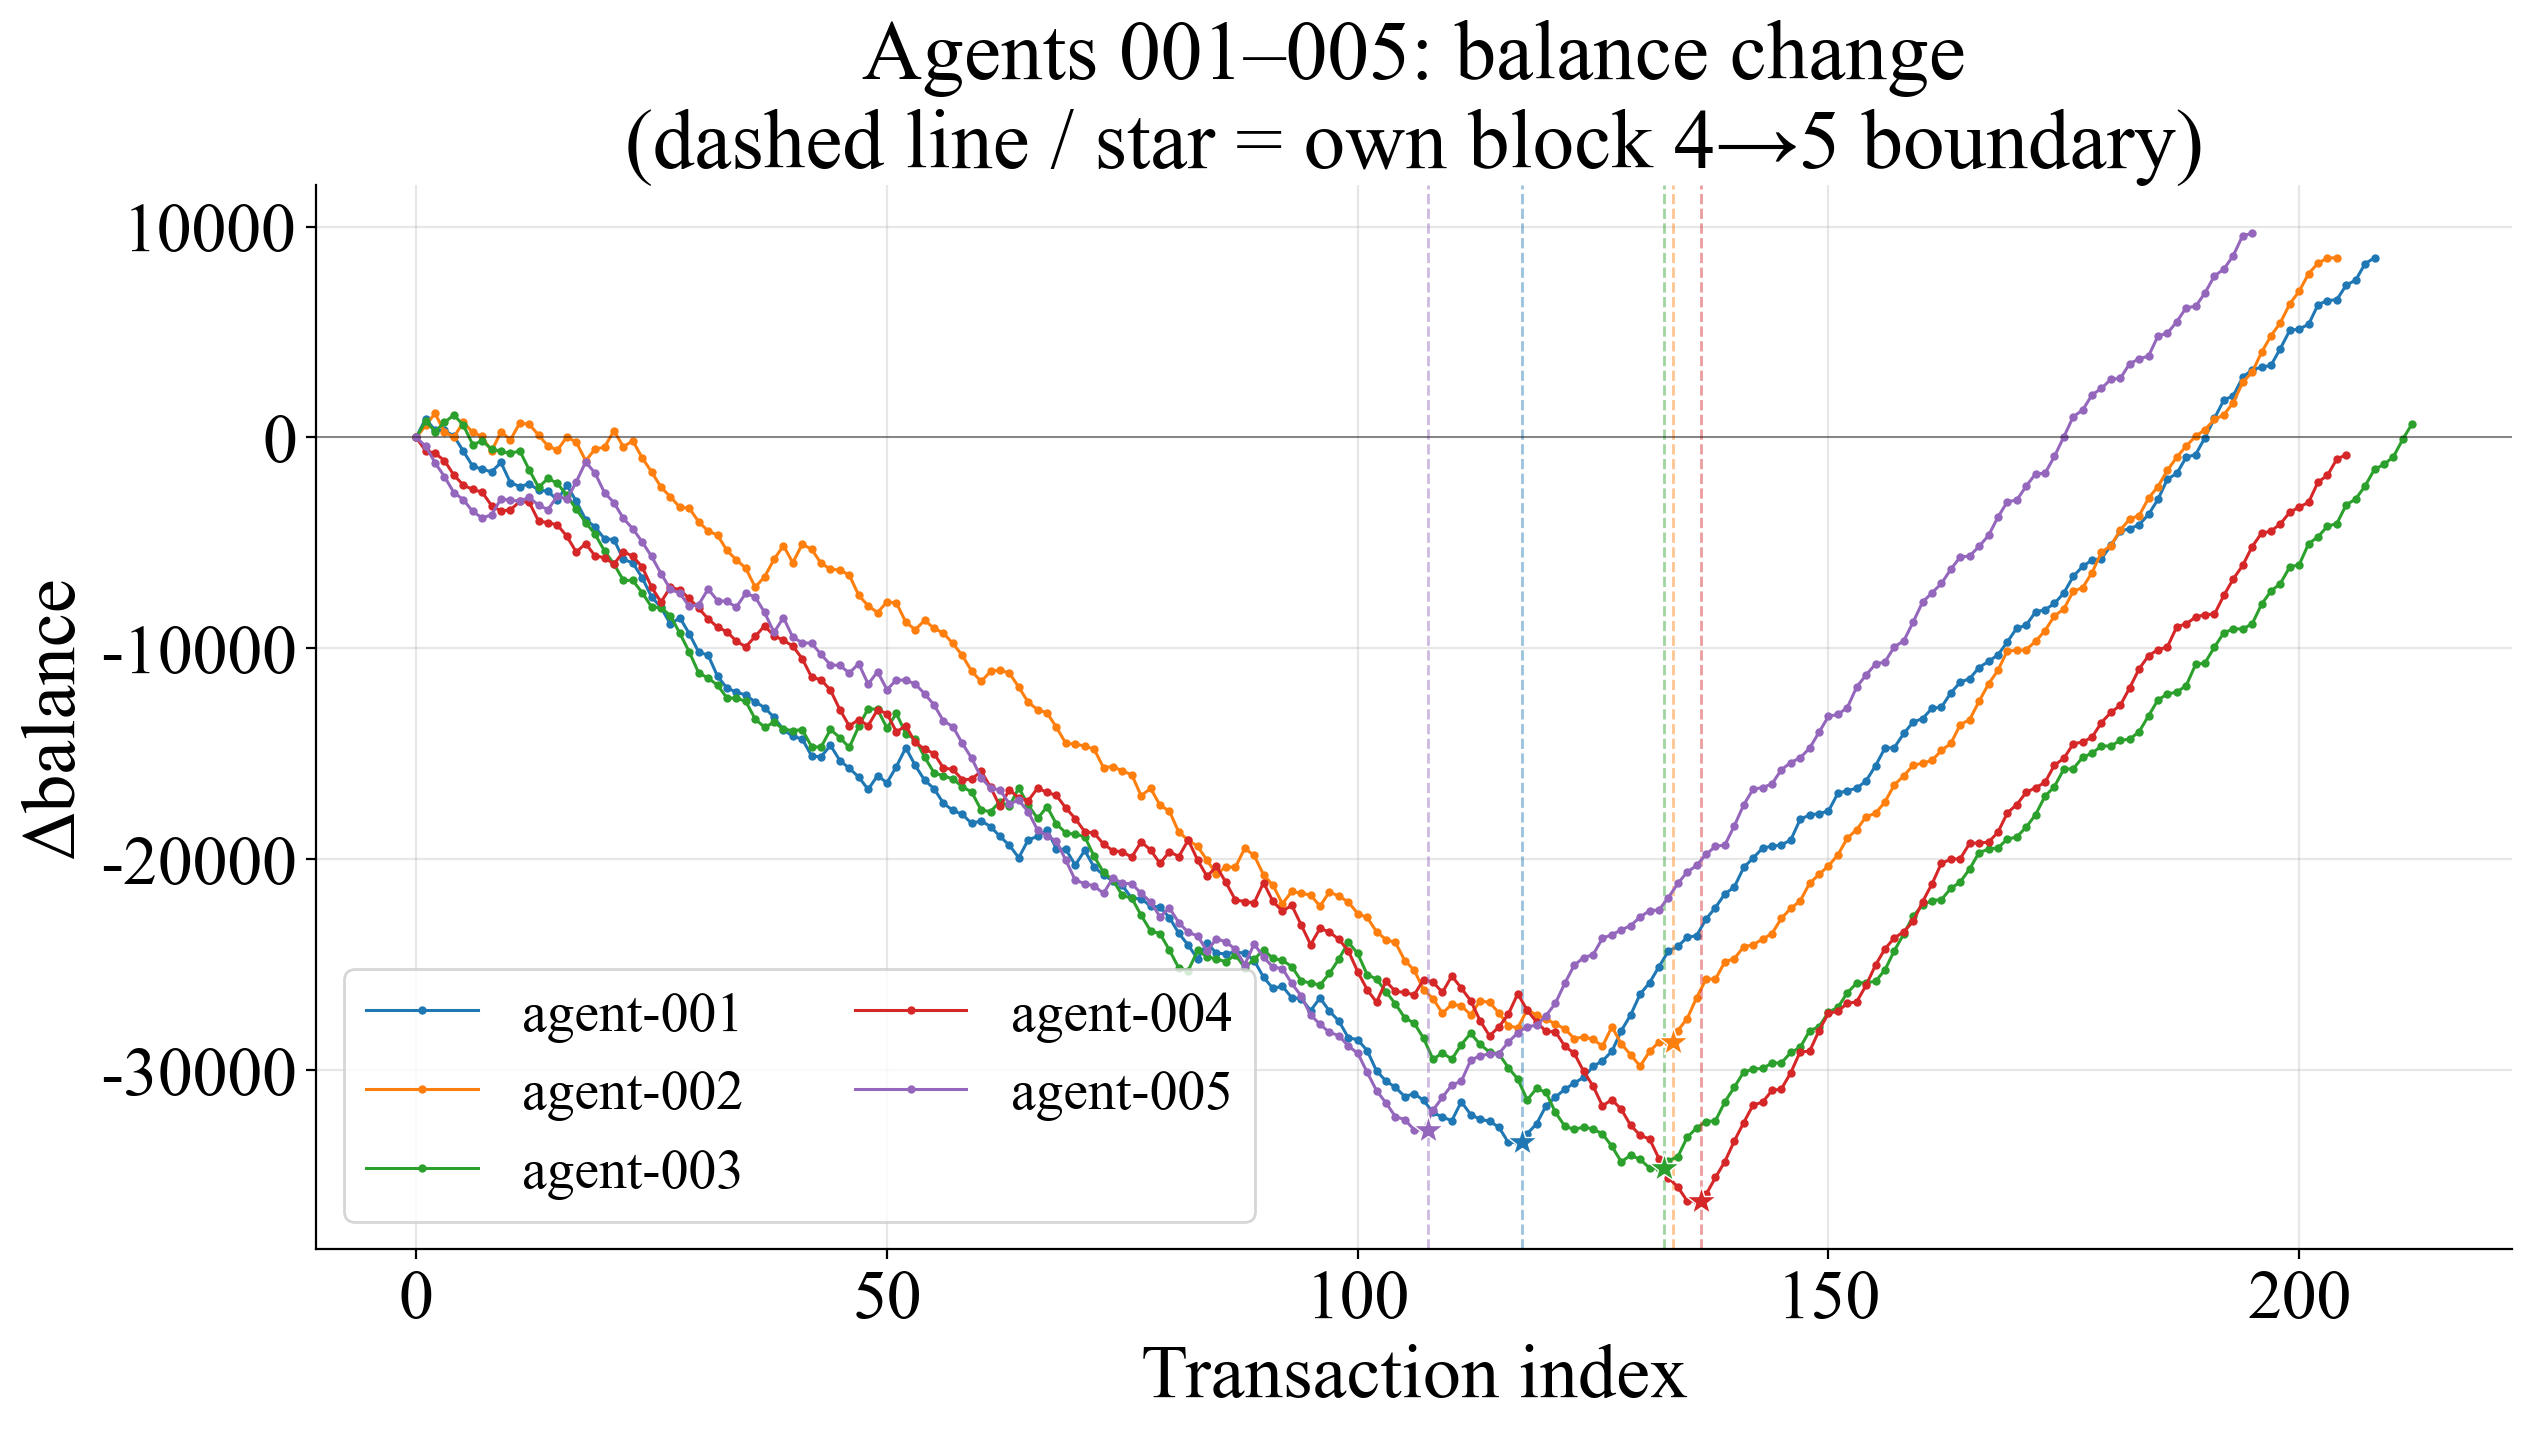
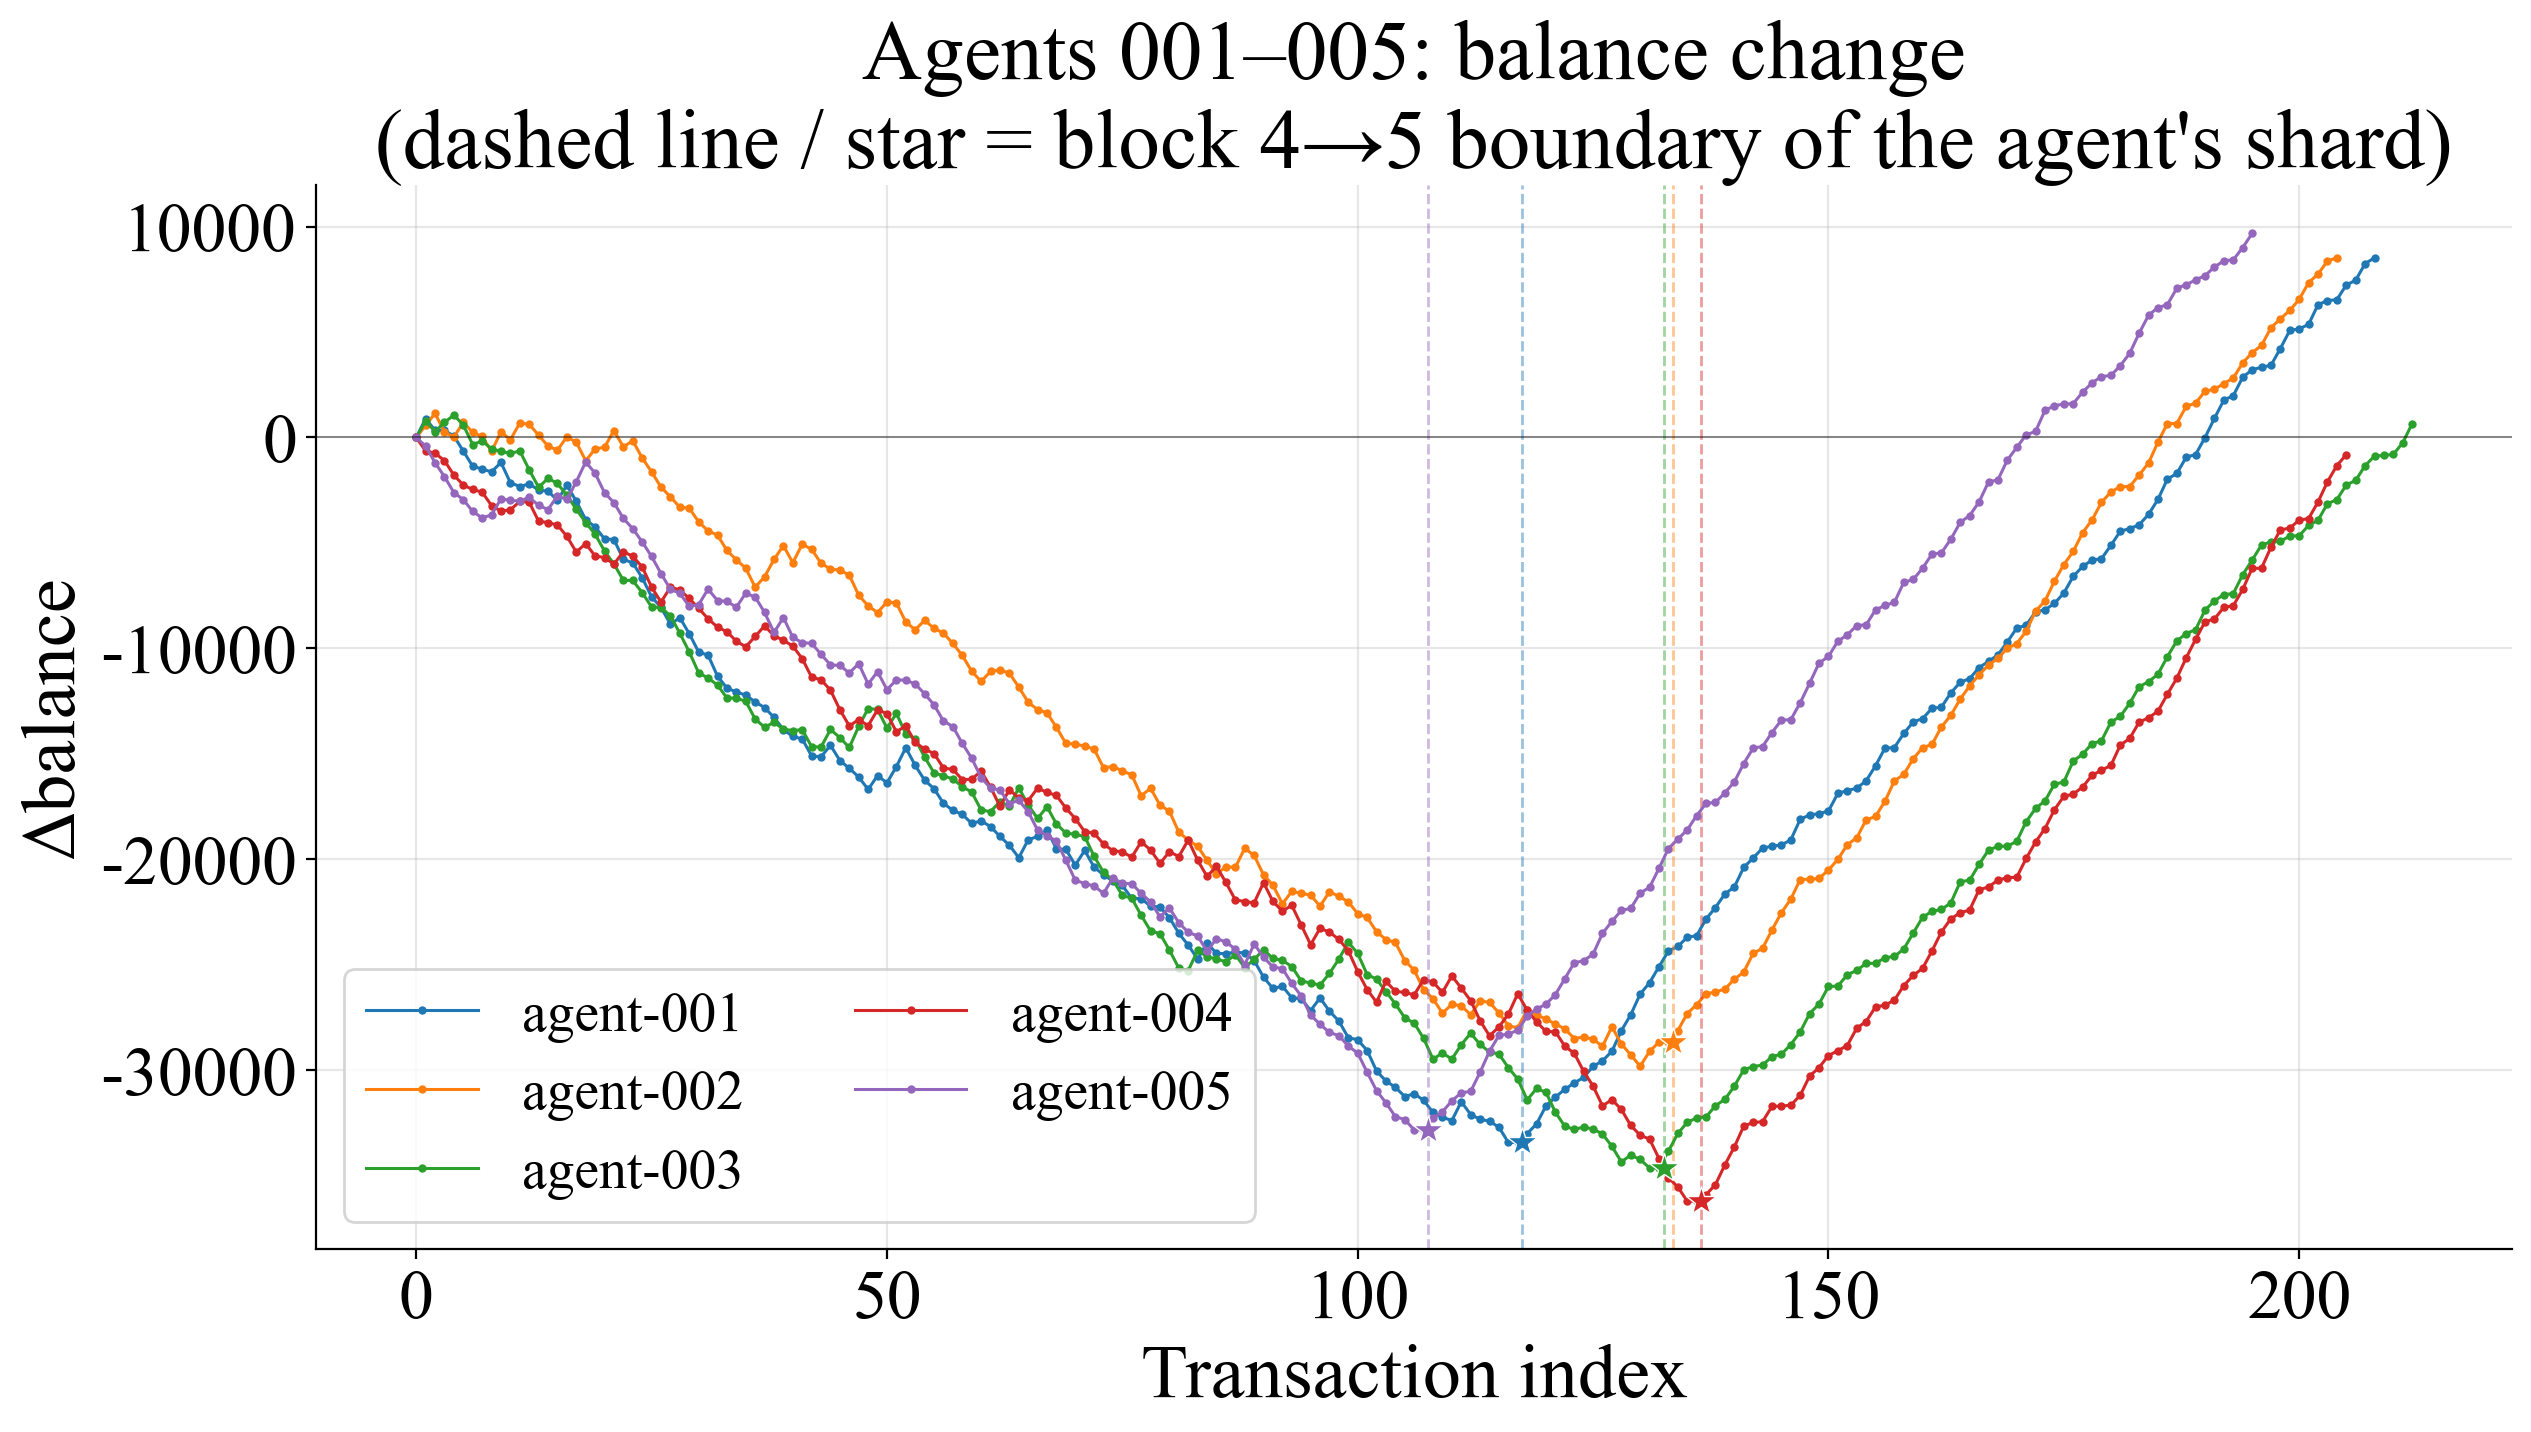
docs: clarify fig4 boundary wording as the agent's shard blocks
Rename the ambiguous 'own block X->Y boundary' in grouped-trajectory
titles to 'block X->Y boundary of the agent's shard' (each shard keeps
its own chain heights), and refresh the README example snapshot.

diff --git a/figs/python_code/plot_agent_balance.py b/figs/python_code/plot_agent_balance.py
@@ -180,7 +180,7 @@ def main():
             color = group_cmap(i)
             ax.plot(np.arange(len(d)), d["delta"], color=color, lw=1.1,
                     marker="o", ms=2, label=d["agent"].iloc[0])
-            # 该 agent 自己的区块分界线(颜色与轨迹一致) + 分界点星标
+            # 该 agent 所在分片链上的区块分界线(颜色与轨迹一致) + 分界点星标
             b = block_boundary_idx(d)
             if 0 < b < len(d):
                 ax.axvline(b - 0.5, color=color, ls="--", lw=1, alpha=0.45)
@@ -188,8 +188,8 @@ def main():
                         ms=11, color=color, mec="white", mew=0.5, zorder=5)
         ax.axhline(0, color="k", lw=0.6, alpha=0.5)
         ax.set_title(f"Agents {first_no}–{last_no}: balance change\n"
-                     f"(dashed line / star = own block {hs_all[0]}→{hs_all[1]} "
-                     f"boundary)", fontsize=30)
+                     f"(dashed line / star = block {hs_all[0]}→{hs_all[1]} "
+                     f"boundary of the agent's shard)", fontsize=30)
         ax.set_xlabel(X_LABEL, fontsize=27.5)
         ax.set_ylabel(Y_LABEL, fontsize=27.5)
         ax.tick_params(labelsize=25)
